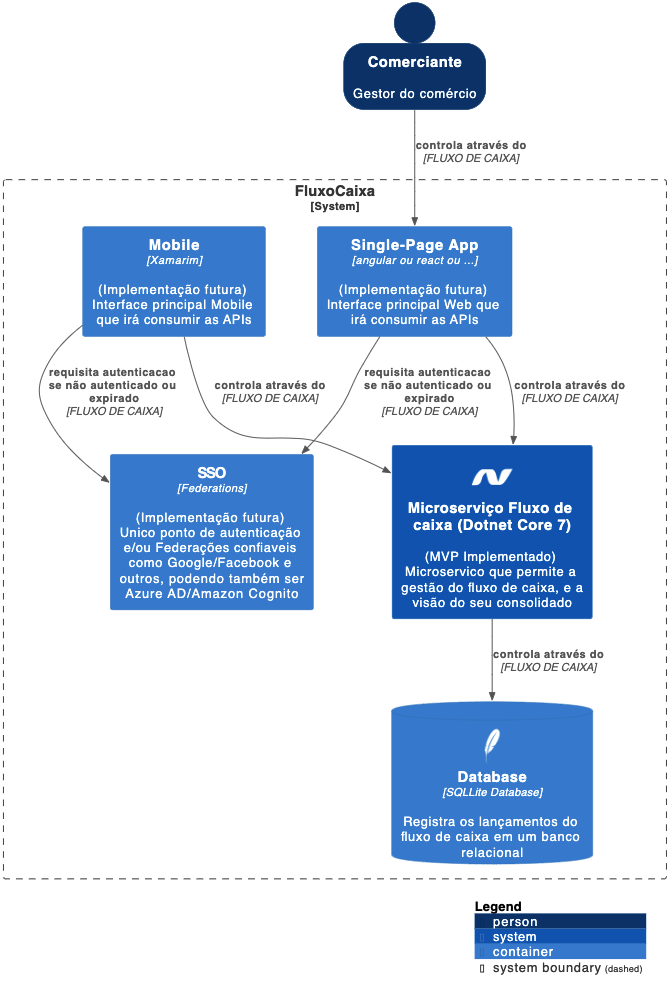
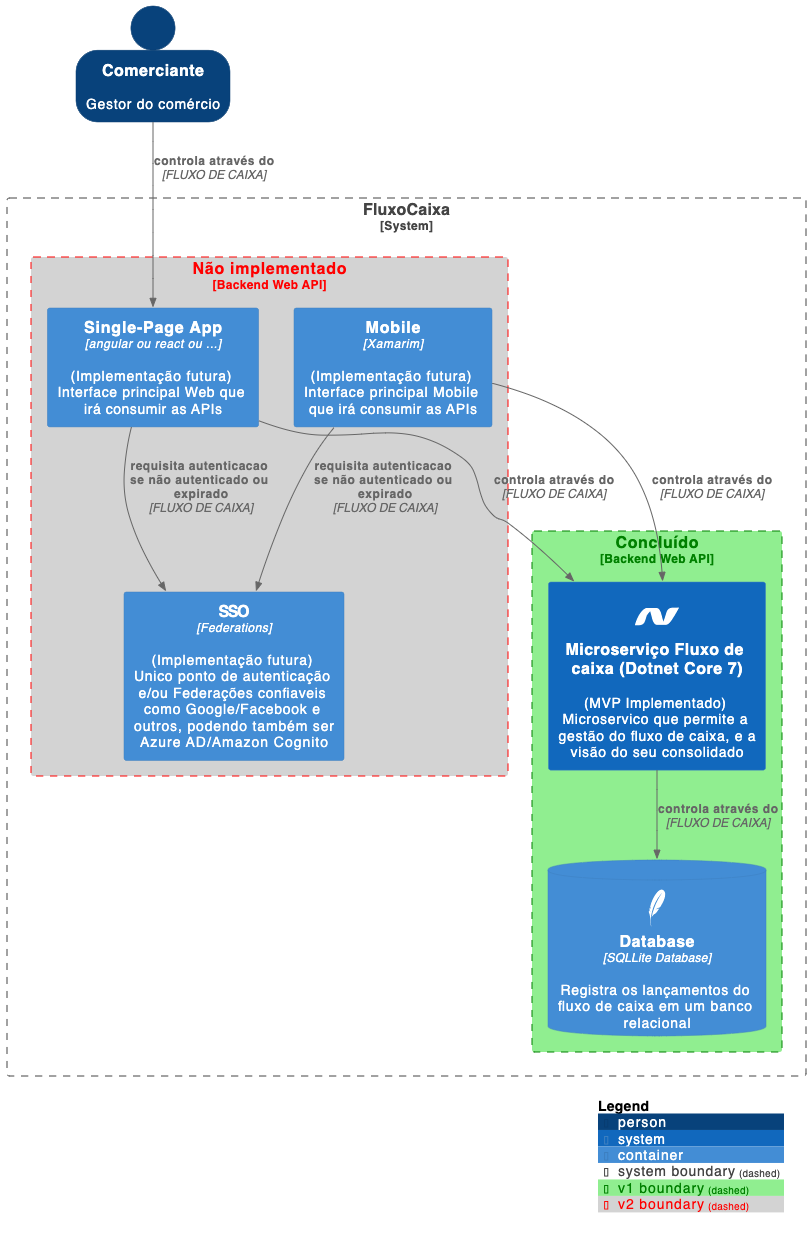
Ajuste readme e C4

diff --git a/README.md b/README.md
@@ -25,7 +25,7 @@ Esta solução foi desenvolvida utilizando:
 
 **Obs:** _**Esta solução é apenas Backend**_, a solução com o Frontend pode ser desenvolvida futuramente, a idéia é desenvolver o front em diversos frameworks e linguagens, como Angular, React, Vue e também Mobile (Nativo ou não);
 
-### Algumas observações importantes :information_source
+### :information_source: Algumas observações importantes
 
 1) Problema a ser resolvido;
    1) Controlar o fluxo de caixa diário;
